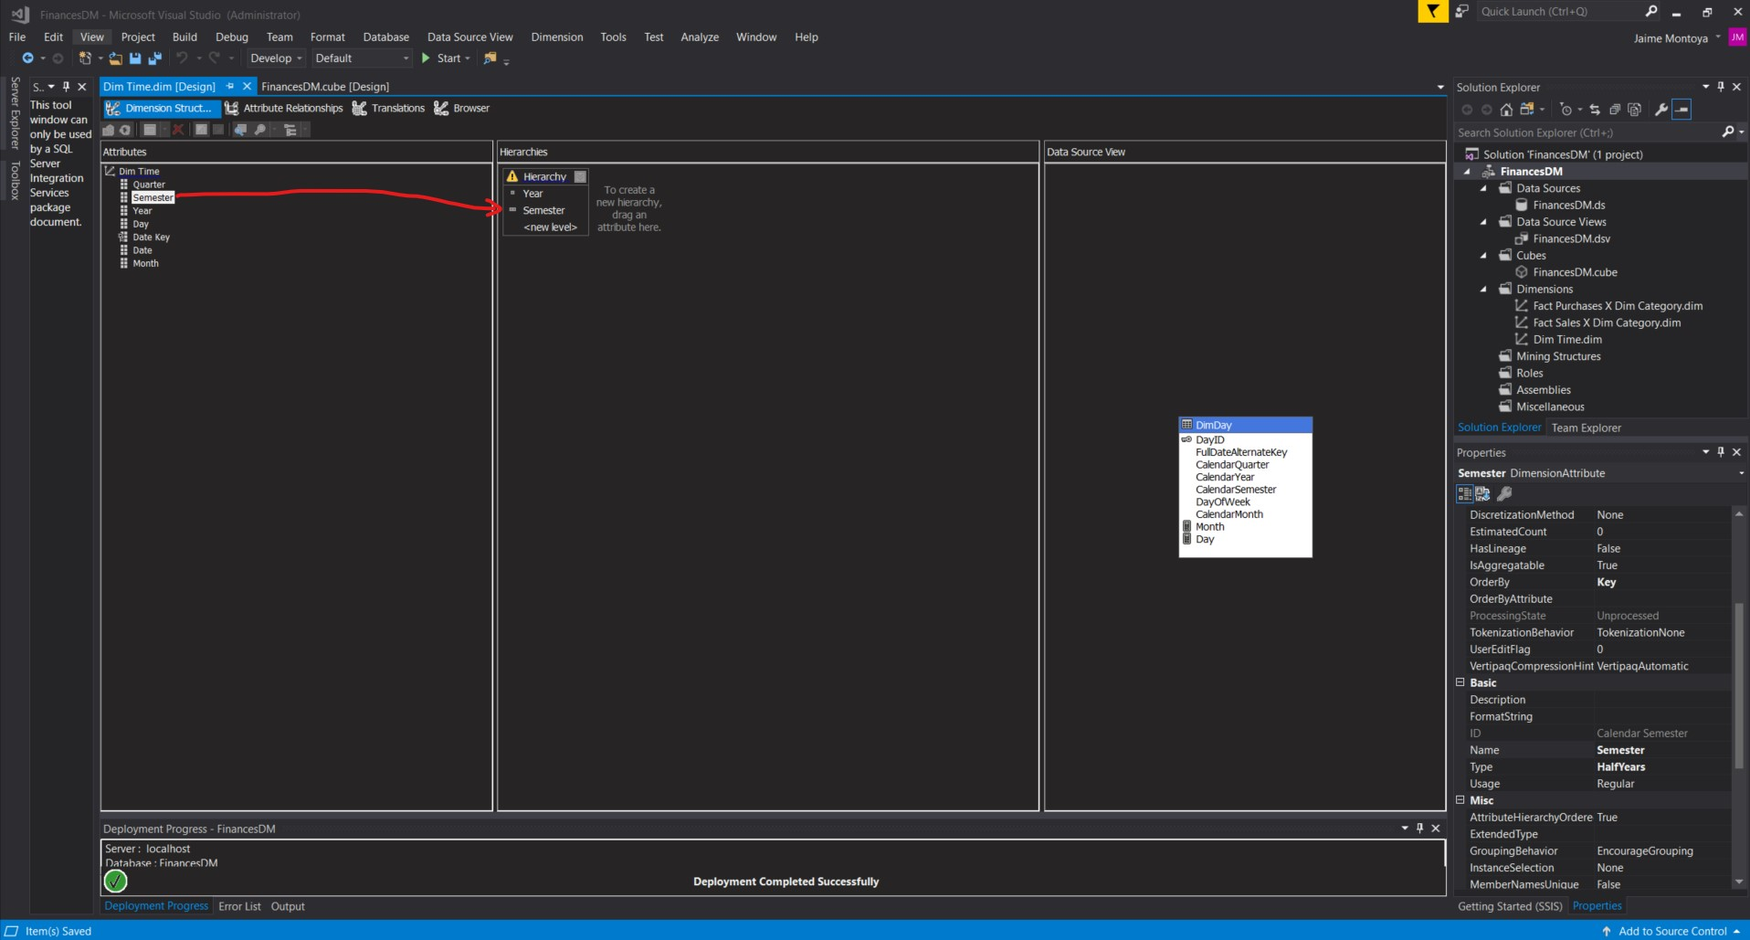
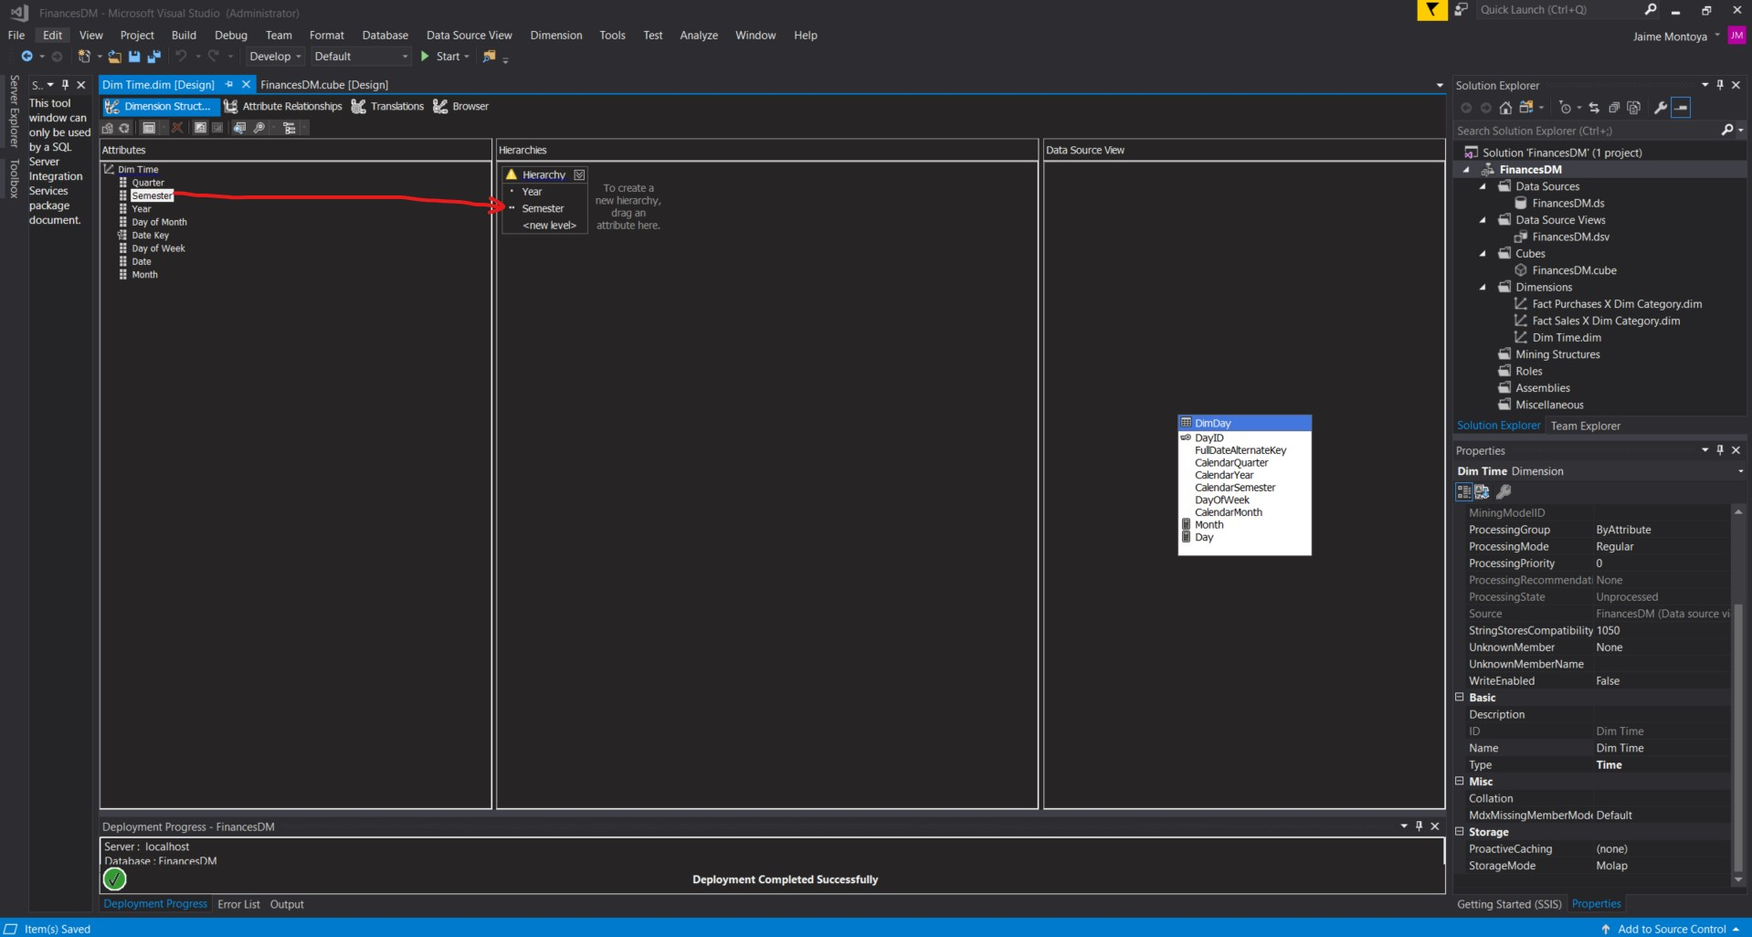
Update image.

diff --git a/blog/2023/12/31/06/14/book-info-20231231-0614.php b/blog/2023/12/31/06/14/book-info-20231231-0614.php
@@ -17,8 +17,5 @@ WHEN CalendarMonth = 11 THEN 'November'
 WHEN CalendarMonth = 12 THEN 'December'
 END
 </pre>		   
-		   </td></tr><tr><td>Day</td><td><span class=\"cod\">CONVERT(int, RIGHT(DayID, 2))</span></td></tr></table><p>I created the <span class=\"cod\">Named Calculation</span> for <span class=\"cod\">Month</span>:</p><div><img src=\"/blog/2023/12/31/06/14/img/createNamedCalculationForMonth.jpg\" alt=\"Create Named Calculation for Month\" width=\"1920\" height=\"1030\"></div><p>I created the <span class=\"cod\">Named Calculation</span> for <span class=\"cod\">Day</span>:</p><div><img src=\"/blog/2023/12/31/06/14/img/createNamedCalculationForDay.jpg\" alt=\"Create Named Calculation for Day\" width=\"1920\" height=\"1026\"></div><p>The new <span class=\"cod\">Named Calculations</span> appeared in the <span class=\"cod\">FinancesDM.dsv Data Source View</span> diagram:</p><div><img src=\"/blog/2023/12/31/06/14/img/calculatedColumnsInDataSourceView.jpg\" alt=\"Calculated columns in Data Source View\" width=\"1919\" height=\"1030\"></div><p>I right-clicked the <span class=\"cod\">DimDay</span> table and clicked <span class=\"cod\">Explore Data</span>:</p><div><img src=\"/blog/2023/12/31/06/14/img/exploreDataFromDataSourceView.jpg\" alt=\"Explore Data from Data Source View\" width=\"1916\" height=\"1028\"></div><p>The <span class=\"cod\">Explore DimDay Table</span> tab appeared with the corresponding results from the view:</p><div><img src=\"/blog/2023/12/31/06/14/img/exploreDimDayTable.jpg\" alt=\"Explore DimDay table\" width=\"1919\" height=\"1030\"></div><p>The results above were exactly the same as when running <span class=\"cod\">SELECT * FROM [Finances].[dbo].[DimDay]</span> from <span class=\"cod\">SQL Server Management Studio</span>, except for the two <span class=\"cod\">Calculated Columns</span> (<span class=\"cod\">Month</span> and <span class=\"cod\">Day</span>):</p><div><img src=\"/blog/2023/12/31/06/14/img/exploreDimDayTableDataFromSQLServerManagementStudio.jpg\" alt=\"Explore DimDay table data from SQL Server Management Studio\" width=\"1920\" height=\"1029\"></div><p>I double-clicked <span class=\"cod\">FinancesDM.cube</span> to open the <span class=\"cod\">FinancesDM.cube [Design]</span> tab. The <span class=\"cod\">Calculated Columns</span> were included in the cube diagram:</p><div><img src=\"/blog/2023/12/31/06/14/img/includeCalculatedColumnsInCubeDiagram.jpg\" alt=\"Include Calculated Columns in cube diagram\" width=\"1917\" height=\"1028\"></div><p>I right-clicked <span class=\"cod\">Dim Time.dim</span> and clicked <span class=\"cod\">Delete</span>:</p><div><img src=\"/blog/2023/12/31/06/14/img/deleteTimeDimension.jpg\" alt=\"Delete Time dimension\" width=\"1918\" height=\"1030\"></div><p>I clicked <span class=\"cod\">OK</span> to delete the <span class=\"cod\">Dim Time</span> object:</p><div><img src=\"/blog/2023/12/31/06/14/img/deleteDimTimeObject.jpg\" alt=\"Delete Dim Time object\" width=\"1918\" height=\"1028\"></div><p>I right-clicked the <span class=\"cod\">Dimensions</span> entry in the <span class=\"cod\">Solution Explorer</span> window, and selected <span class=\"cod\">New Dimension</span> from the context menu:</p><div><img src=\"/blog/2023/12/31/06/14/img/createNewTimeDimension.jpg\" alt=\"Create new Time dimension\" width=\"1922\" height=\"1080\"></div><p>The <span class=\"cod\">Dimension Wizard</span> dialog box appeared. I clicked <span class=\"cod\">Next</span>:</p><div><img src=\"/blog/2023/12/31/06/14/img/startDimensionWizard.jpg\" alt=\"Start Dimension Wizard\" width=\"1918\" height=\"1029\"></div><p>The <span class=\"cod\">Select Creation Method</span> page of the wizard appeared. I left the <span class=\"cod\">Use an existing table</span> item selected and clicked <span class=\"cod\">Next</span>:</p><div><img src=\"/blog/2023/12/31/06/14/img/useAnExistingTableToCreateDimension.jpg\" alt=\"Use an existing table to create dimension\" width=\"1919\" height=\"1028\"></div><p>The <span class=\"cod\">Specify Source Information</span> page appeared. The <span class=\"cod\">FinancesDM</span> data source view was already selected. I selected <span class=\"cod\">DimDay</span> from the <span class=\"cod\">Main table</span> drop-down list. <span class=\"cod\">DayID</span> was selected as the first and only <span class=\"cod\">Key column</span>. I selected <span class=\"cod\">DayID</span> from the drop-down list at the bottom. I clicked <span class=\"cod\">Next</span>:</p><div><img src=\"/blog/2023/12/31/06/14/img/specifySourceInformationForTimeDimension.jpg\" alt=\"Specify Source Information for Time dimension\" width=\"1917\" height=\"1031\"></div><p>The <span class=\"cod\">Select Dimension Attributes</span> page appeared. I left <span class=\"cod\">Day ID</span> checked and also checked <span class=\"cod\">Full Date Alternate Key</span>, <span class=\"cod\">Calendar Quarter</span>, <span class=\"cod\">Calendar Year</span>, <span class=\"cod\">Calendar Semester</span>, <span class=\"cod\">Day Of Week</span>, <span class=\"cod\">Month</span>, and <span class=\"cod\">Day</span>. I clicked in the <span class=\"cod\">Attribute Type column</span> across from <span class=\"cod\">Day ID</span>. I clicked the drop-down arrow. I expanded the <span class=\"cod\">Date</span> entry. I expanded the <span class=\"cod\">Calendar</span> entry. I selected <span class=\"cod\">Date</span> and clicked <span class=\"cod\">OK</span>:</p><div><img src=\"/blog/2023/12/31/06/14/img/defineAttributeTypeForDayID.jpg\" alt=\"Define Attribute Type for Day ID\" width=\"1916\" height=\"1029\"></div><p>I clicked in the <span class=\"cod\">Attribute Type column</span> across from <span class=\"cod\">Full Date Alternate Key</span>. I clicked the drop-down arrow. I expanded the <span class=\"cod\">Date</span> entry. I expanded the <span class=\"cod\">Calendar</span> entry. I selected <span class=\"cod\">Date</span> and clicked <span class=\"cod\">OK</span>:</p><div><img src=\"/blog/2023/12/31/06/14/img/selectDateAttributeType.jpg\" alt=\"Select Date Attribute Type\" width=\"1916\" height=\"1029\"></div><p>I clicked in the <span class=\"cod\">Attribute Type</span> column across from <span class=\"cod\">Calendar Quarter</span>. I clicked the drop-down arrow. I expanded the <span class=\"cod\">Date</span> entry. I expanded the <span class=\"cod\">Calendar</span> entry. I selected <span class=\"cod\">Quarter</span> and clicked <span class=\"cod\">OK</span>:</p><div><img src=\"/blog/2023/12/31/06/14/img/selectQuarterAttributeType.jpg\" alt=\"Select Quarter Attribute Type\" width=\"1917\" height=\"1031\"></div><p>I clicked in the <span class=\"cod\">Attribute Type</span> column across from <span class=\"cod\">Calendar Year</span>. I clicked the drop-down arrow. I expanded the <span class=\"cod\">Date</span> entry. I expanded the <span class=\"cod\">Calendar</span> entry. I selected <span class=\"cod\">Year</span> and clicked <span class=\"cod\">OK</span>:</p><div><img src=\"/blog/2023/12/31/06/14/img/selectYearAttributeTypeForDimension.jpg\" alt=\"Select Year Attribute Type for Dimension\" width=\"1916\" height=\"1030\"></div><p>I clicked in the <span class=\"cod\">Attribute Type</span> column across from <span class=\"cod\">Calendar Semester</span>. I clicked the drop-down arrow. I expanded the <span class=\"cod\">Date</span> entry. I expanded the <span class=\"cod\">Calendar</span> entry. I selected <span class=\"cod\">Half Year</span> and clicked <span class=\"cod\">OK</span>:</p><div><img src=\"/blog/2023/12/31/06/14/img/selectHalfYearAttributeTypeForDimension.jpg\" alt=\"Select Half Year Attribute Type for Dimension\" width=\"1919\" height=\"1028\"></div><p>I clicked in the <span class=\"cod\">Attribute Type</span> column across from <span class=\"cod\">Day Of Week</span>. I clicked the drop-down arrow. I expanded the <span class=\"cod\">Date</span> entry. I expanded the <span class=\"cod\">Calendar</span> entry. I selected <span class=\"cod\">Day of Week</span> and clicked <span class=\"cod\">OK</span>:</p><div><img src=\"/blog/2023/12/31/06/14/img/selectDayOfWeekAttributeTypeForDimension.jpg\" alt=\"Select Month Attribute Type for Dimension\" width=\"1919\" height=\"1026\"></div><p>I clicked in the <span class=\"cod\">Attribute Type</span> column across from <span class=\"cod\">Month</span>. I clicked the drop-down arrow. I expanded the <span class=\"cod\">Date</span> entry. I expanded the <span class=\"cod\">Calendar</span> entry. I selected <span class=\"cod\">Month</span> and clicked <span class=\"cod\">OK</span>:</p><div><img src=\"/blog/2023/12/31/06/14/img/selectMonthAttributeTypeForDimension.jpg\" alt=\"Select Month Attribute Type for Dimension\" width=\"1915\" height=\"1025\"></div><p>I clicked in the <span class=\"cod\">Attribute Type</span> column across from <span class=\"cod\">Day</span>. I clicked the drop-down arrow. I expanded the <span class=\"cod\">Date</span> entry. I expanded the <span class=\"cod\">Calendar</span> entry. I selected <span class=\"cod\">Day of Month</span> and clicked <span class=\"cod\">OK</span>:</p><div><img src=\"/blog/2023/12/31/06/14/img/selectDayOfMonthAttributeForDimension.jpg\" alt=\"Select Day of Month Attribute Type for Dimension\" width=\"1917\" height=\"1029\"></div><p>I clicked <span class=\"cod\">Next</span>:</p><div><img src=\"/blog/2023/12/31/06/14/img/clickNextAfterSelectingTimeDimensionAttributes.jpg\" alt=\"Click Next after selecting Time Dimension attributes\" width=\"1917\" height=\"1030\"></div><p>The <span class=\"cod\">Completing the Wizard</span> page appeared. I changed the name to <span class=\"cod\">Dim Time</span>. I clicked <span class=\"cod\">Finish</span>:</p><div><img src=\"/blog/2023/12/31/06/14/img/clickFinishToCompleteCreationOfTimeDimension.jpg\" alt=\"Click Finish to complete creation of Time Dimension\" width=\"1918\" height=\"1029\"></div><p>The <span class=\"cod\">Dimension Design</span> tab appeared with the <span class=\"cod\">Dim Time</span> dimension:</p><div><img src=\"/blog/2023/12/31/06/14/img/timeDimensionDesignTabForNewTimeDimension.jpg\" alt=\"Time Dimension Design tab for new Time Dimension\" width=\"1917\" height=\"1028\"></div><p>I right-clicked the entry for <span class=\"cod\">Day ID</span> in the <span class=\"cod\">Attributes</span> area, and selected <span class=\"cod\">Rename</span> from the context menu:</p><div><img src=\"/blog/2023/12/31/06/14/img/renameDayIDAttribute.jpg\" alt=\"Rename Day ID Attribute\" width=\"1914\" height=\"1028\"></div><p>I entered <span class=\"cod\">Date Key</span> for the name of this attribute, and pressed <span class=\"cod\">ENTER</span>:</p><div><img src=\"/blog/2023/12/31/06/14/img/dayIDRenamedToDateKey.jpg\" alt=\"Day ID renamed to Date Key\" width=\"1918\" height=\"1028\"></div><p>I repeated the steps above to rename the other attributes as follows:</p><table><tbody><tr><th>Old name</th><th>New name</th></tr><tr><td>Calendar Quarter</td><td>Quarter</td></tr><tr><td>Calendar Semester</td><td>Semester</td></tr><tr><td>Calendar Year</td><td>Year</td></tr><tr><td>Day</td><td>Day of Month</td></tr><tr><td>Day Of Week</td><td>Day of Week</td></tr><tr><td>Full Date Alternate Key</td><td>Date</td></tr></tbody></table><div><img src=\"/blog/2023/12/31/06/14/img/renameTimeAttributes.jpg\" alt=\"Rename Time Attributes\" width=\"1917\" height=\"1027\"></div><p>I dragged the <span class=\"cod\">Year</span> item from the <span class=\"cod\">Attributes</span> column, and dropped it in the <span class=\"cod\">Hierarchies</span> area:</p><div><img src=\"/blog/2023/12/31/06/14/img/moveYearAttributeToHierarchy.jpg\" alt=\"Move Year Attribute to Hierarchy\" width=\"1917\" height=\"1027\"></div>
-		   
-		   
-		   <p>I dragged the <span class=\"cod\">Semester</span> item from the <span class=\"cod\">Attributes</span> column, and dropped it on <span class=\"cod\">&lt;new level&gt;</span> in the <span class=\"cod\">Hierarchies</span> area:</p><div><img src=\"/blog/2023/12/31/06/14/img/moveSemesterAttributeToHierarchy.jpg\" alt=\"Move Semester Attribute to Hierarchy\" width=\"1916\" height=\"1029\"></div> <div>Published: 6:14 AM GMT · Dec 31, 2023</div>\n";
+		   </td></tr><tr><td>Day</td><td><span class=\"cod\">CONVERT(int, RIGHT(DayID, 2))</span></td></tr></table><p>I created the <span class=\"cod\">Named Calculation</span> for <span class=\"cod\">Month</span>:</p><div><img src=\"/blog/2023/12/31/06/14/img/createNamedCalculationForMonth.jpg\" alt=\"Create Named Calculation for Month\" width=\"1920\" height=\"1030\"></div><p>I created the <span class=\"cod\">Named Calculation</span> for <span class=\"cod\">Day</span>:</p><div><img src=\"/blog/2023/12/31/06/14/img/createNamedCalculationForDay.jpg\" alt=\"Create Named Calculation for Day\" width=\"1920\" height=\"1026\"></div><p>The new <span class=\"cod\">Named Calculations</span> appeared in the <span class=\"cod\">FinancesDM.dsv Data Source View</span> diagram:</p><div><img src=\"/blog/2023/12/31/06/14/img/calculatedColumnsInDataSourceView.jpg\" alt=\"Calculated columns in Data Source View\" width=\"1919\" height=\"1030\"></div><p>I right-clicked the <span class=\"cod\">DimDay</span> table and clicked <span class=\"cod\">Explore Data</span>:</p><div><img src=\"/blog/2023/12/31/06/14/img/exploreDataFromDataSourceView.jpg\" alt=\"Explore Data from Data Source View\" width=\"1916\" height=\"1028\"></div><p>The <span class=\"cod\">Explore DimDay Table</span> tab appeared with the corresponding results from the view:</p><div><img src=\"/blog/2023/12/31/06/14/img/exploreDimDayTable.jpg\" alt=\"Explore DimDay table\" width=\"1919\" height=\"1030\"></div><p>The results above were exactly the same as when running <span class=\"cod\">SELECT * FROM [Finances].[dbo].[DimDay]</span> from <span class=\"cod\">SQL Server Management Studio</span>, except for the two <span class=\"cod\">Calculated Columns</span> (<span class=\"cod\">Month</span> and <span class=\"cod\">Day</span>):</p><div><img src=\"/blog/2023/12/31/06/14/img/exploreDimDayTableDataFromSQLServerManagementStudio.jpg\" alt=\"Explore DimDay table data from SQL Server Management Studio\" width=\"1920\" height=\"1029\"></div><p>I double-clicked <span class=\"cod\">FinancesDM.cube</span> to open the <span class=\"cod\">FinancesDM.cube [Design]</span> tab. The <span class=\"cod\">Calculated Columns</span> were included in the cube diagram:</p><div><img src=\"/blog/2023/12/31/06/14/img/includeCalculatedColumnsInCubeDiagram.jpg\" alt=\"Include Calculated Columns in cube diagram\" width=\"1917\" height=\"1028\"></div><p>I right-clicked <span class=\"cod\">Dim Time.dim</span> and clicked <span class=\"cod\">Delete</span>:</p><div><img src=\"/blog/2023/12/31/06/14/img/deleteTimeDimension.jpg\" alt=\"Delete Time dimension\" width=\"1918\" height=\"1030\"></div><p>I clicked <span class=\"cod\">OK</span> to delete the <span class=\"cod\">Dim Time</span> object:</p><div><img src=\"/blog/2023/12/31/06/14/img/deleteDimTimeObject.jpg\" alt=\"Delete Dim Time object\" width=\"1918\" height=\"1028\"></div><p>I right-clicked the <span class=\"cod\">Dimensions</span> entry in the <span class=\"cod\">Solution Explorer</span> window, and selected <span class=\"cod\">New Dimension</span> from the context menu:</p><div><img src=\"/blog/2023/12/31/06/14/img/createNewTimeDimension.jpg\" alt=\"Create new Time dimension\" width=\"1922\" height=\"1080\"></div><p>The <span class=\"cod\">Dimension Wizard</span> dialog box appeared. I clicked <span class=\"cod\">Next</span>:</p><div><img src=\"/blog/2023/12/31/06/14/img/startDimensionWizard.jpg\" alt=\"Start Dimension Wizard\" width=\"1918\" height=\"1029\"></div><p>The <span class=\"cod\">Select Creation Method</span> page of the wizard appeared. I left the <span class=\"cod\">Use an existing table</span> item selected and clicked <span class=\"cod\">Next</span>:</p><div><img src=\"/blog/2023/12/31/06/14/img/useAnExistingTableToCreateDimension.jpg\" alt=\"Use an existing table to create dimension\" width=\"1919\" height=\"1028\"></div><p>The <span class=\"cod\">Specify Source Information</span> page appeared. The <span class=\"cod\">FinancesDM</span> data source view was already selected. I selected <span class=\"cod\">DimDay</span> from the <span class=\"cod\">Main table</span> drop-down list. <span class=\"cod\">DayID</span> was selected as the first and only <span class=\"cod\">Key column</span>. I selected <span class=\"cod\">DayID</span> from the drop-down list at the bottom. I clicked <span class=\"cod\">Next</span>:</p><div><img src=\"/blog/2023/12/31/06/14/img/specifySourceInformationForTimeDimension.jpg\" alt=\"Specify Source Information for Time dimension\" width=\"1917\" height=\"1031\"></div><p>The <span class=\"cod\">Select Dimension Attributes</span> page appeared. I left <span class=\"cod\">Day ID</span> checked and also checked <span class=\"cod\">Full Date Alternate Key</span>, <span class=\"cod\">Calendar Quarter</span>, <span class=\"cod\">Calendar Year</span>, <span class=\"cod\">Calendar Semester</span>, <span class=\"cod\">Day Of Week</span>, <span class=\"cod\">Month</span>, and <span class=\"cod\">Day</span>. I clicked in the <span class=\"cod\">Attribute Type column</span> across from <span class=\"cod\">Day ID</span>. I clicked the drop-down arrow. I expanded the <span class=\"cod\">Date</span> entry. I expanded the <span class=\"cod\">Calendar</span> entry. I selected <span class=\"cod\">Date</span> and clicked <span class=\"cod\">OK</span>:</p><div><img src=\"/blog/2023/12/31/06/14/img/defineAttributeTypeForDayID.jpg\" alt=\"Define Attribute Type for Day ID\" width=\"1916\" height=\"1029\"></div><p>I clicked in the <span class=\"cod\">Attribute Type column</span> across from <span class=\"cod\">Full Date Alternate Key</span>. I clicked the drop-down arrow. I expanded the <span class=\"cod\">Date</span> entry. I expanded the <span class=\"cod\">Calendar</span> entry. I selected <span class=\"cod\">Date</span> and clicked <span class=\"cod\">OK</span>:</p><div><img src=\"/blog/2023/12/31/06/14/img/selectDateAttributeType.jpg\" alt=\"Select Date Attribute Type\" width=\"1916\" height=\"1029\"></div><p>I clicked in the <span class=\"cod\">Attribute Type</span> column across from <span class=\"cod\">Calendar Quarter</span>. I clicked the drop-down arrow. I expanded the <span class=\"cod\">Date</span> entry. I expanded the <span class=\"cod\">Calendar</span> entry. I selected <span class=\"cod\">Quarter</span> and clicked <span class=\"cod\">OK</span>:</p><div><img src=\"/blog/2023/12/31/06/14/img/selectQuarterAttributeType.jpg\" alt=\"Select Quarter Attribute Type\" width=\"1917\" height=\"1031\"></div><p>I clicked in the <span class=\"cod\">Attribute Type</span> column across from <span class=\"cod\">Calendar Year</span>. I clicked the drop-down arrow. I expanded the <span class=\"cod\">Date</span> entry. I expanded the <span class=\"cod\">Calendar</span> entry. I selected <span class=\"cod\">Year</span> and clicked <span class=\"cod\">OK</span>:</p><div><img src=\"/blog/2023/12/31/06/14/img/selectYearAttributeTypeForDimension.jpg\" alt=\"Select Year Attribute Type for Dimension\" width=\"1916\" height=\"1030\"></div><p>I clicked in the <span class=\"cod\">Attribute Type</span> column across from <span class=\"cod\">Calendar Semester</span>. I clicked the drop-down arrow. I expanded the <span class=\"cod\">Date</span> entry. I expanded the <span class=\"cod\">Calendar</span> entry. I selected <span class=\"cod\">Half Year</span> and clicked <span class=\"cod\">OK</span>:</p><div><img src=\"/blog/2023/12/31/06/14/img/selectHalfYearAttributeTypeForDimension.jpg\" alt=\"Select Half Year Attribute Type for Dimension\" width=\"1919\" height=\"1028\"></div><p>I clicked in the <span class=\"cod\">Attribute Type</span> column across from <span class=\"cod\">Day Of Week</span>. I clicked the drop-down arrow. I expanded the <span class=\"cod\">Date</span> entry. I expanded the <span class=\"cod\">Calendar</span> entry. I selected <span class=\"cod\">Day of Week</span> and clicked <span class=\"cod\">OK</span>:</p><div><img src=\"/blog/2023/12/31/06/14/img/selectDayOfWeekAttributeTypeForDimension.jpg\" alt=\"Select Month Attribute Type for Dimension\" width=\"1919\" height=\"1026\"></div><p>I clicked in the <span class=\"cod\">Attribute Type</span> column across from <span class=\"cod\">Month</span>. I clicked the drop-down arrow. I expanded the <span class=\"cod\">Date</span> entry. I expanded the <span class=\"cod\">Calendar</span> entry. I selected <span class=\"cod\">Month</span> and clicked <span class=\"cod\">OK</span>:</p><div><img src=\"/blog/2023/12/31/06/14/img/selectMonthAttributeTypeForDimension.jpg\" alt=\"Select Month Attribute Type for Dimension\" width=\"1915\" height=\"1025\"></div><p>I clicked in the <span class=\"cod\">Attribute Type</span> column across from <span class=\"cod\">Day</span>. I clicked the drop-down arrow. I expanded the <span class=\"cod\">Date</span> entry. I expanded the <span class=\"cod\">Calendar</span> entry. I selected <span class=\"cod\">Day of Month</span> and clicked <span class=\"cod\">OK</span>:</p><div><img src=\"/blog/2023/12/31/06/14/img/selectDayOfMonthAttributeForDimension.jpg\" alt=\"Select Day of Month Attribute Type for Dimension\" width=\"1917\" height=\"1029\"></div><p>I clicked <span class=\"cod\">Next</span>:</p><div><img src=\"/blog/2023/12/31/06/14/img/clickNextAfterSelectingTimeDimensionAttributes.jpg\" alt=\"Click Next after selecting Time Dimension attributes\" width=\"1917\" height=\"1030\"></div><p>The <span class=\"cod\">Completing the Wizard</span> page appeared. I changed the name to <span class=\"cod\">Dim Time</span>. I clicked <span class=\"cod\">Finish</span>:</p><div><img src=\"/blog/2023/12/31/06/14/img/clickFinishToCompleteCreationOfTimeDimension.jpg\" alt=\"Click Finish to complete creation of Time Dimension\" width=\"1918\" height=\"1029\"></div><p>The <span class=\"cod\">Dimension Design</span> tab appeared with the <span class=\"cod\">Dim Time</span> dimension:</p><div><img src=\"/blog/2023/12/31/06/14/img/timeDimensionDesignTabForNewTimeDimension.jpg\" alt=\"Time Dimension Design tab for new Time Dimension\" width=\"1917\" height=\"1028\"></div><p>I right-clicked the entry for <span class=\"cod\">Day ID</span> in the <span class=\"cod\">Attributes</span> area, and selected <span class=\"cod\">Rename</span> from the context menu:</p><div><img src=\"/blog/2023/12/31/06/14/img/renameDayIDAttribute.jpg\" alt=\"Rename Day ID Attribute\" width=\"1914\" height=\"1028\"></div><p>I entered <span class=\"cod\">Date Key</span> for the name of this attribute, and pressed <span class=\"cod\">ENTER</span>:</p><div><img src=\"/blog/2023/12/31/06/14/img/dayIDRenamedToDateKey.jpg\" alt=\"Day ID renamed to Date Key\" width=\"1918\" height=\"1028\"></div><p>I repeated the steps above to rename the other attributes as follows:</p><table><tbody><tr><th>Old name</th><th>New name</th></tr><tr><td>Calendar Quarter</td><td>Quarter</td></tr><tr><td>Calendar Semester</td><td>Semester</td></tr><tr><td>Calendar Year</td><td>Year</td></tr><tr><td>Day</td><td>Day of Month</td></tr><tr><td>Day Of Week</td><td>Day of Week</td></tr><tr><td>Full Date Alternate Key</td><td>Date</td></tr></tbody></table><div><img src=\"/blog/2023/12/31/06/14/img/renameTimeAttributes.jpg\" alt=\"Rename Time Attributes\" width=\"1917\" height=\"1027\"></div><p>I dragged the <span class=\"cod\">Year</span> item from the <span class=\"cod\">Attributes</span> column, and dropped it in the <span class=\"cod\">Hierarchies</span> area:</p><div><img src=\"/blog/2023/12/31/06/14/img/moveYearAttributeToHierarchy.jpg\" alt=\"Move Year Attribute to Hierarchy\" width=\"1917\" height=\"1027\"></div><p>I dragged the <span class=\"cod\">Semester</span> item from the <span class=\"cod\">Attributes</span> column, and dropped it on <span class=\"cod\">&lt;new level&gt;</span> in the <span class=\"cod\">Hierarchies</span> area:</p><div><img src=\"/blog/2023/12/31/06/14/img/moveSemesterAttributeToHierarchy.jpg\" alt=\"Move Semester Attribute to Hierarchy\" width=\"1918\" height=\"1026\"></div> <div>Published: 6:14 AM GMT · Dec 31, 2023</div>\n";
 ?>
